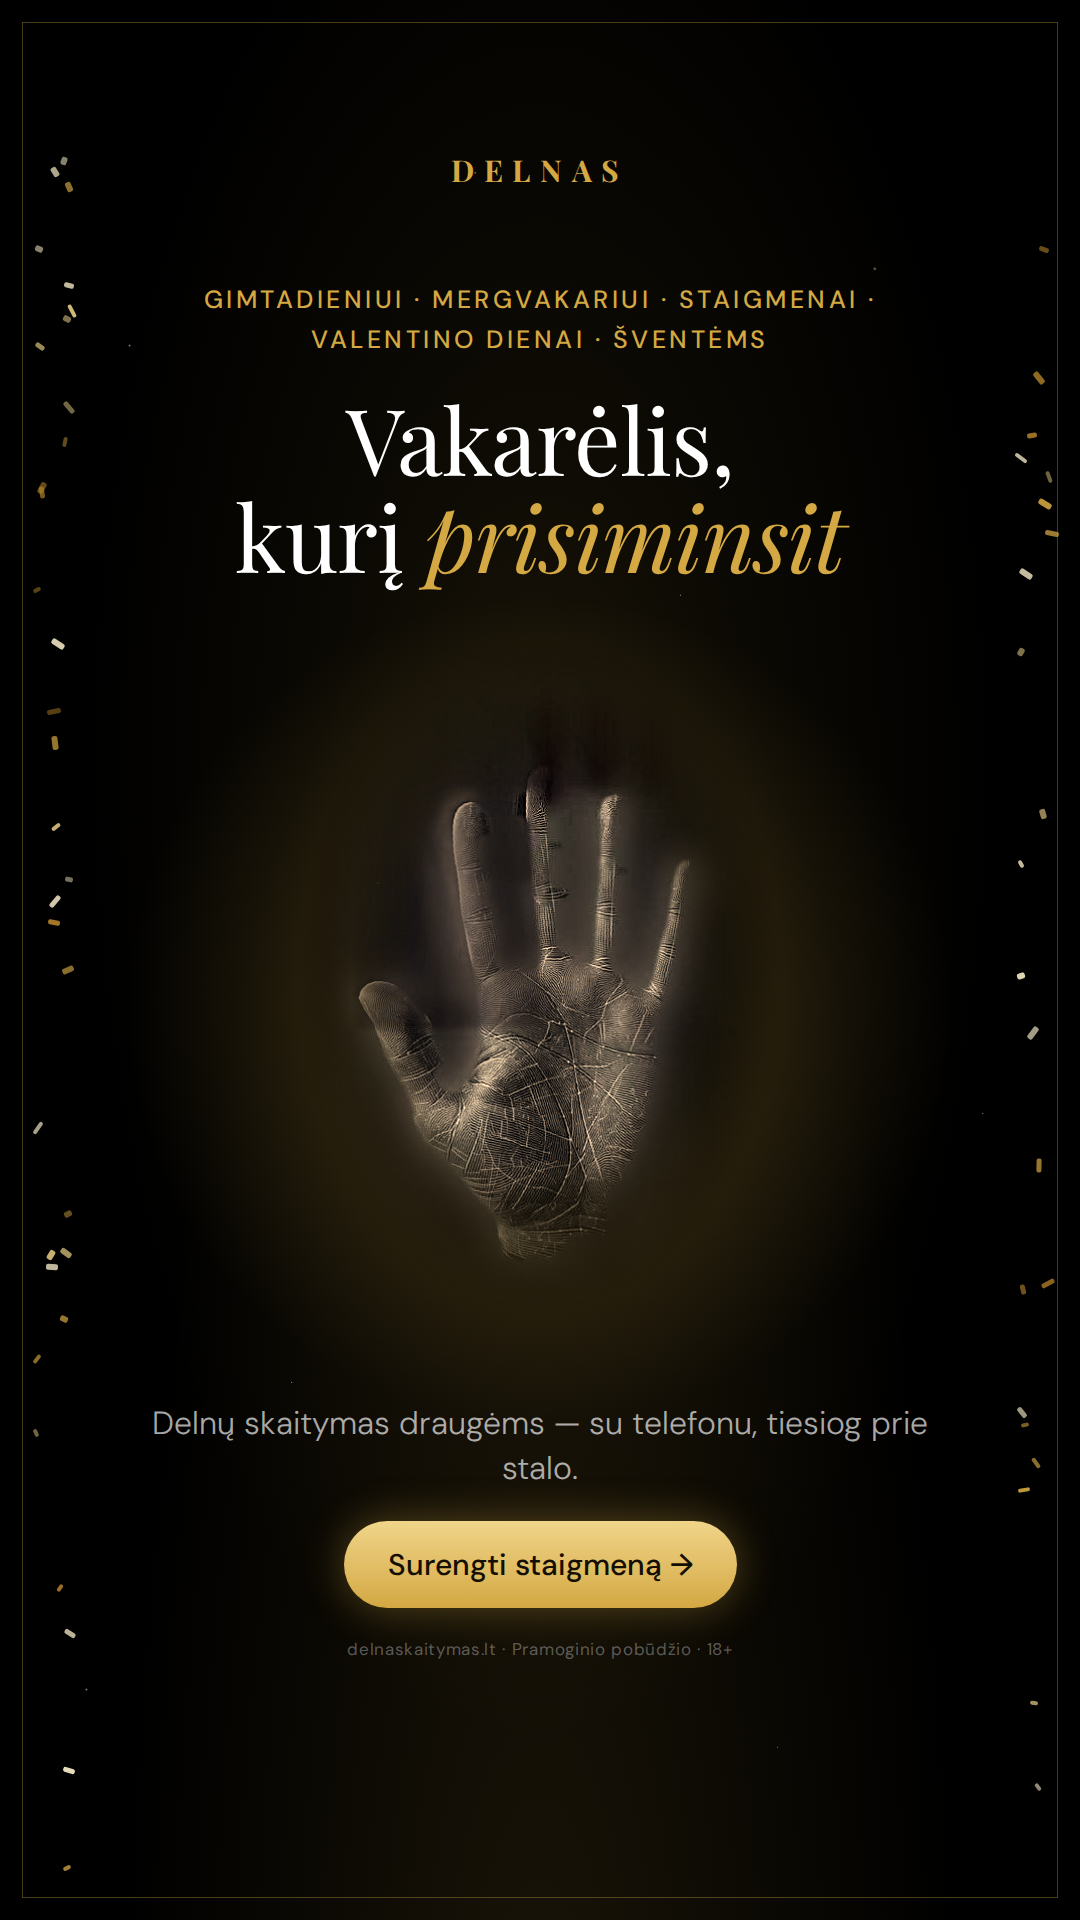
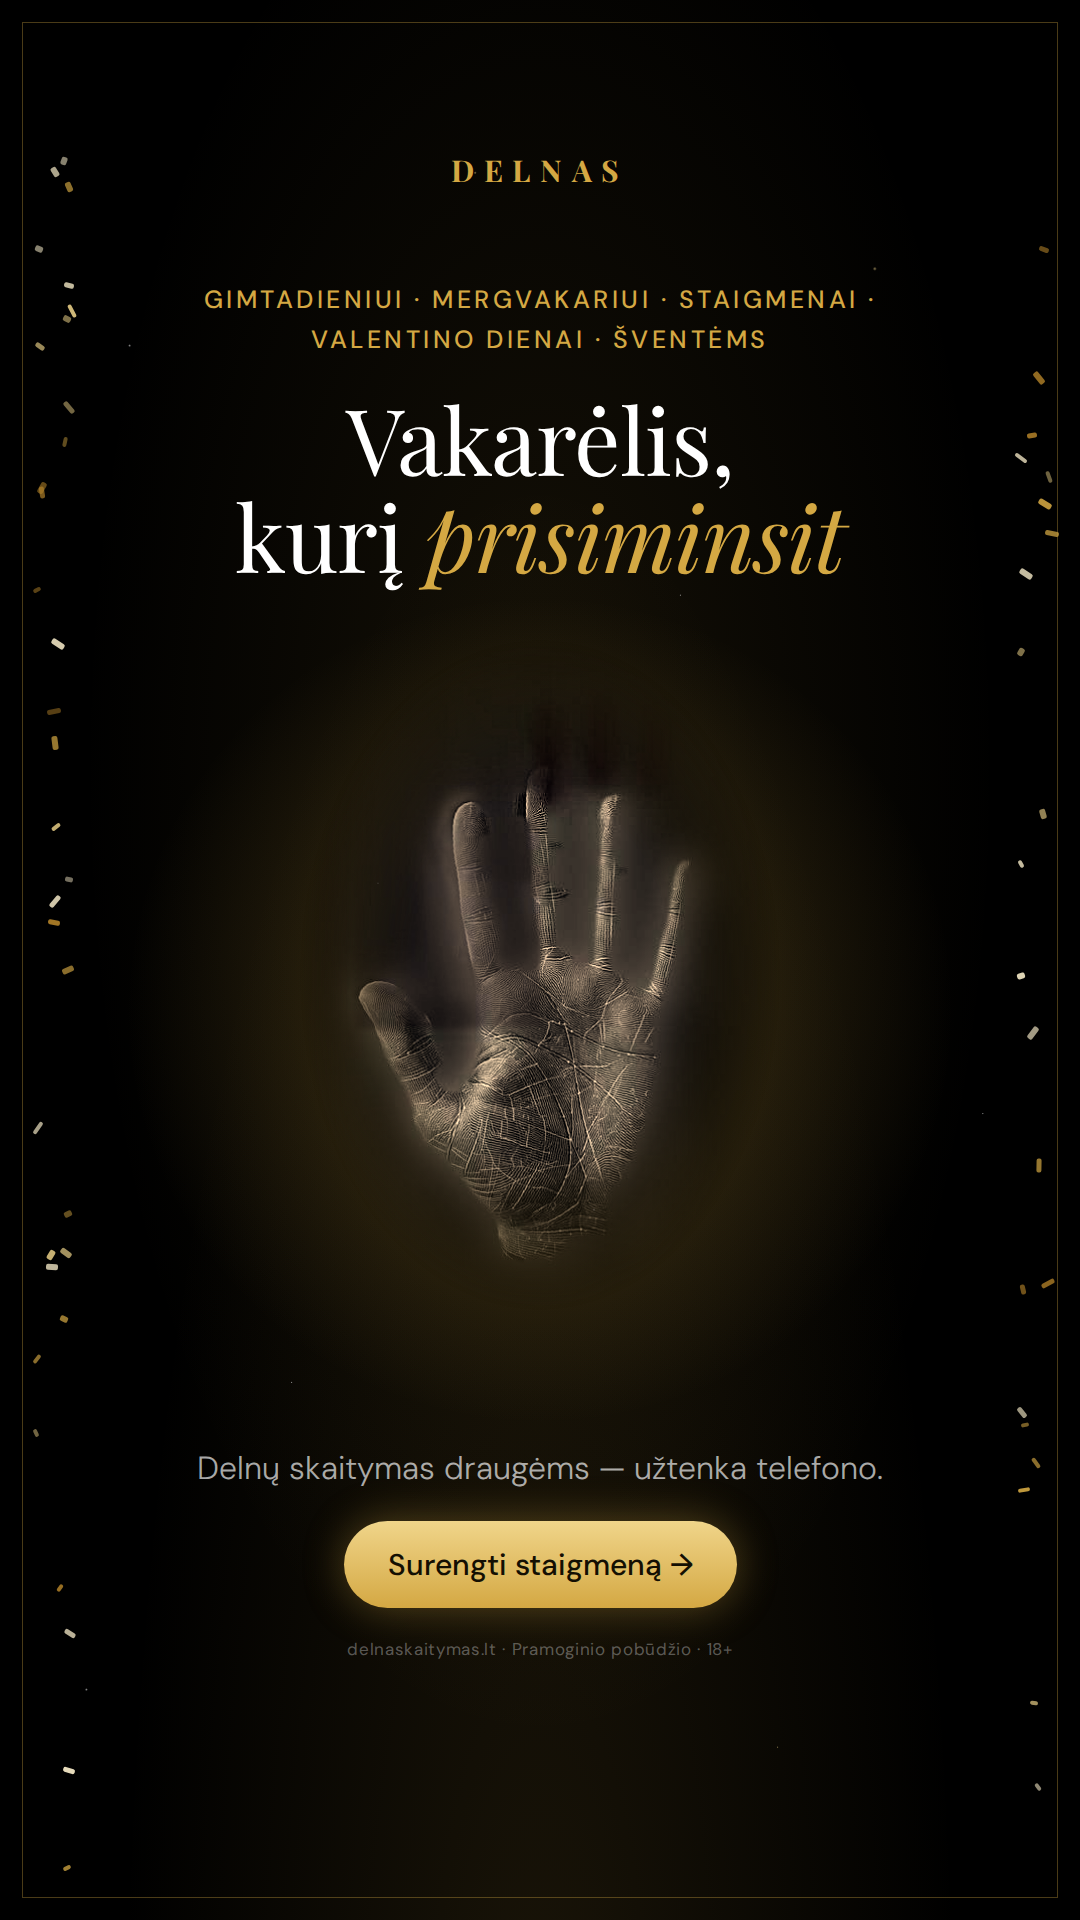
Reklamos: 34 — „užtenka telefono“ vietoj „tiesiog prie stalo“
Claude-Session: https://claude.ai/code/session_01SAS6jcXVwrehsNMXyhjzXP

Changed region(s): [[0.1528, 0.7188, 0.55, 0.7812], [0.55, 0.7188, 0.8556, 0.7812]]

diff --git a/reklamos/reklamos.html b/reklamos/reklamos.html
@@ -855,7 +855,7 @@
   <div class="glow" style="width:900px;height:900px;left:90px;top:560px"></div>
   <div class="hand" style="width:480px;height:670px;left:300px;top:640px"></div>
   <div style="margin-top:auto;display:flex;flex-direction:column;gap:30px;align-items:center">
-    <p class="sub" style="max-width:840px">Delnų skaitymas draugėms — su telefonu, tiesiog prie stalo.</p>
+    <p class="sub" style="max-width:840px">Delnų skaitymas draugėms — užtenka telefono.</p>
     <div class="cta" style="align-self:center">Surengti staigmeną →</div>
     <div class="fine">delnaskaitymas.lt · Pramoginio pobūdžio · 18+</div>
   </div>
